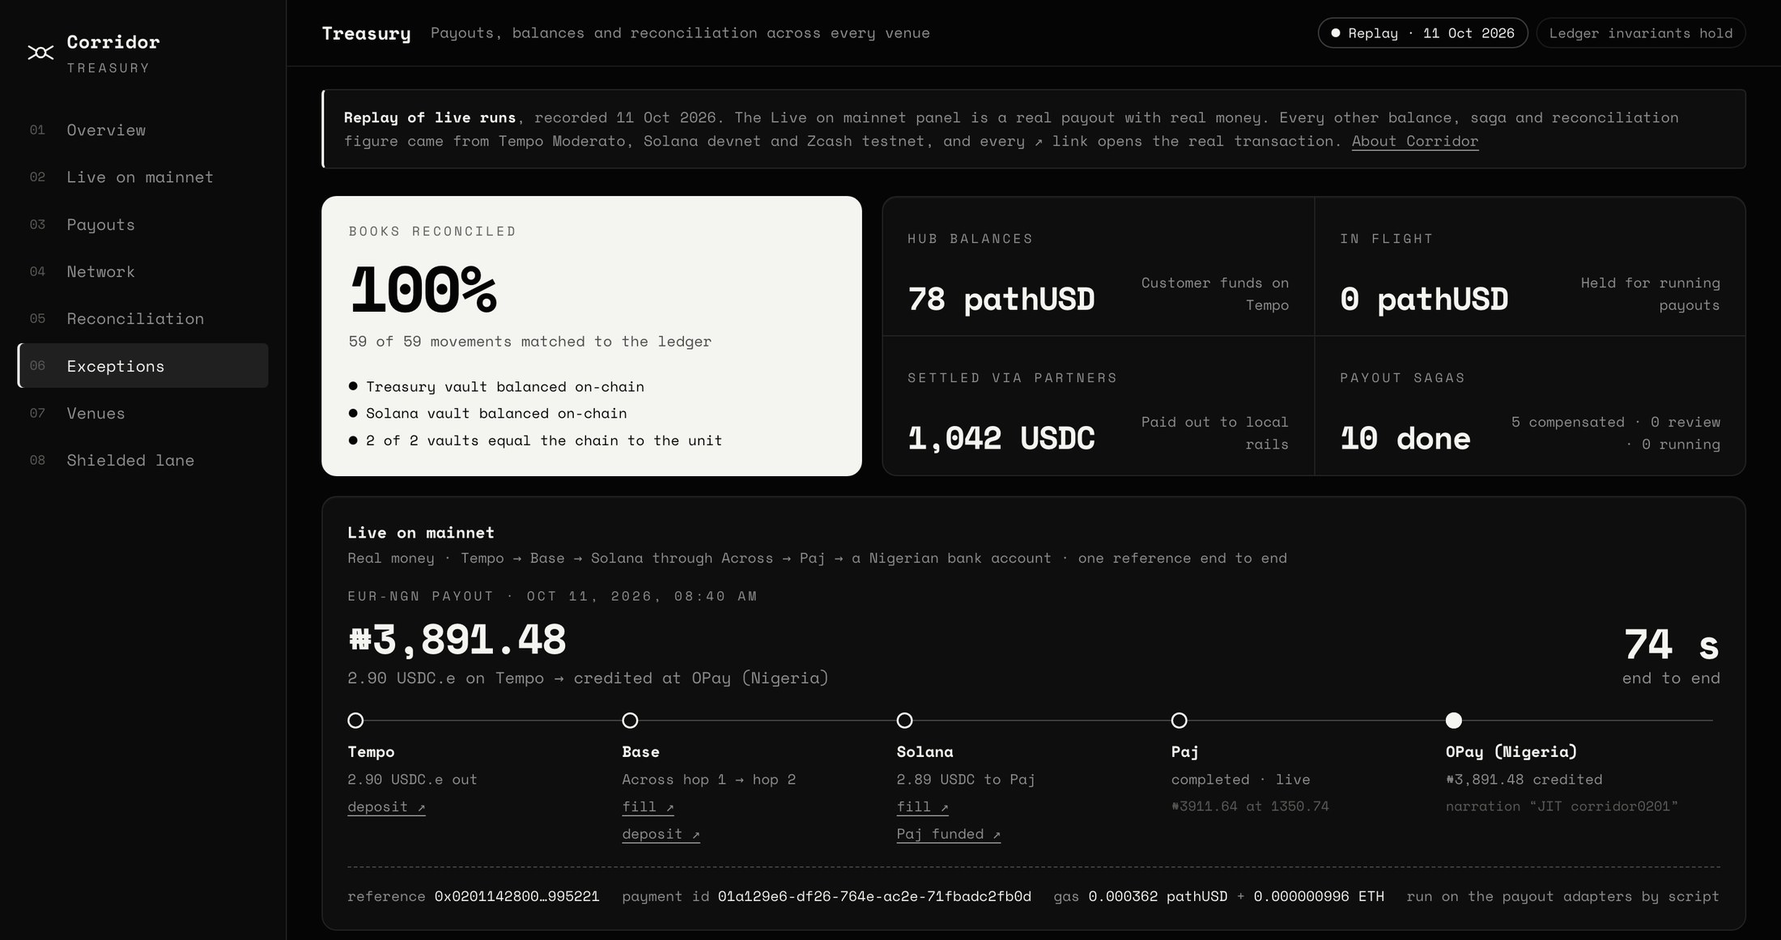
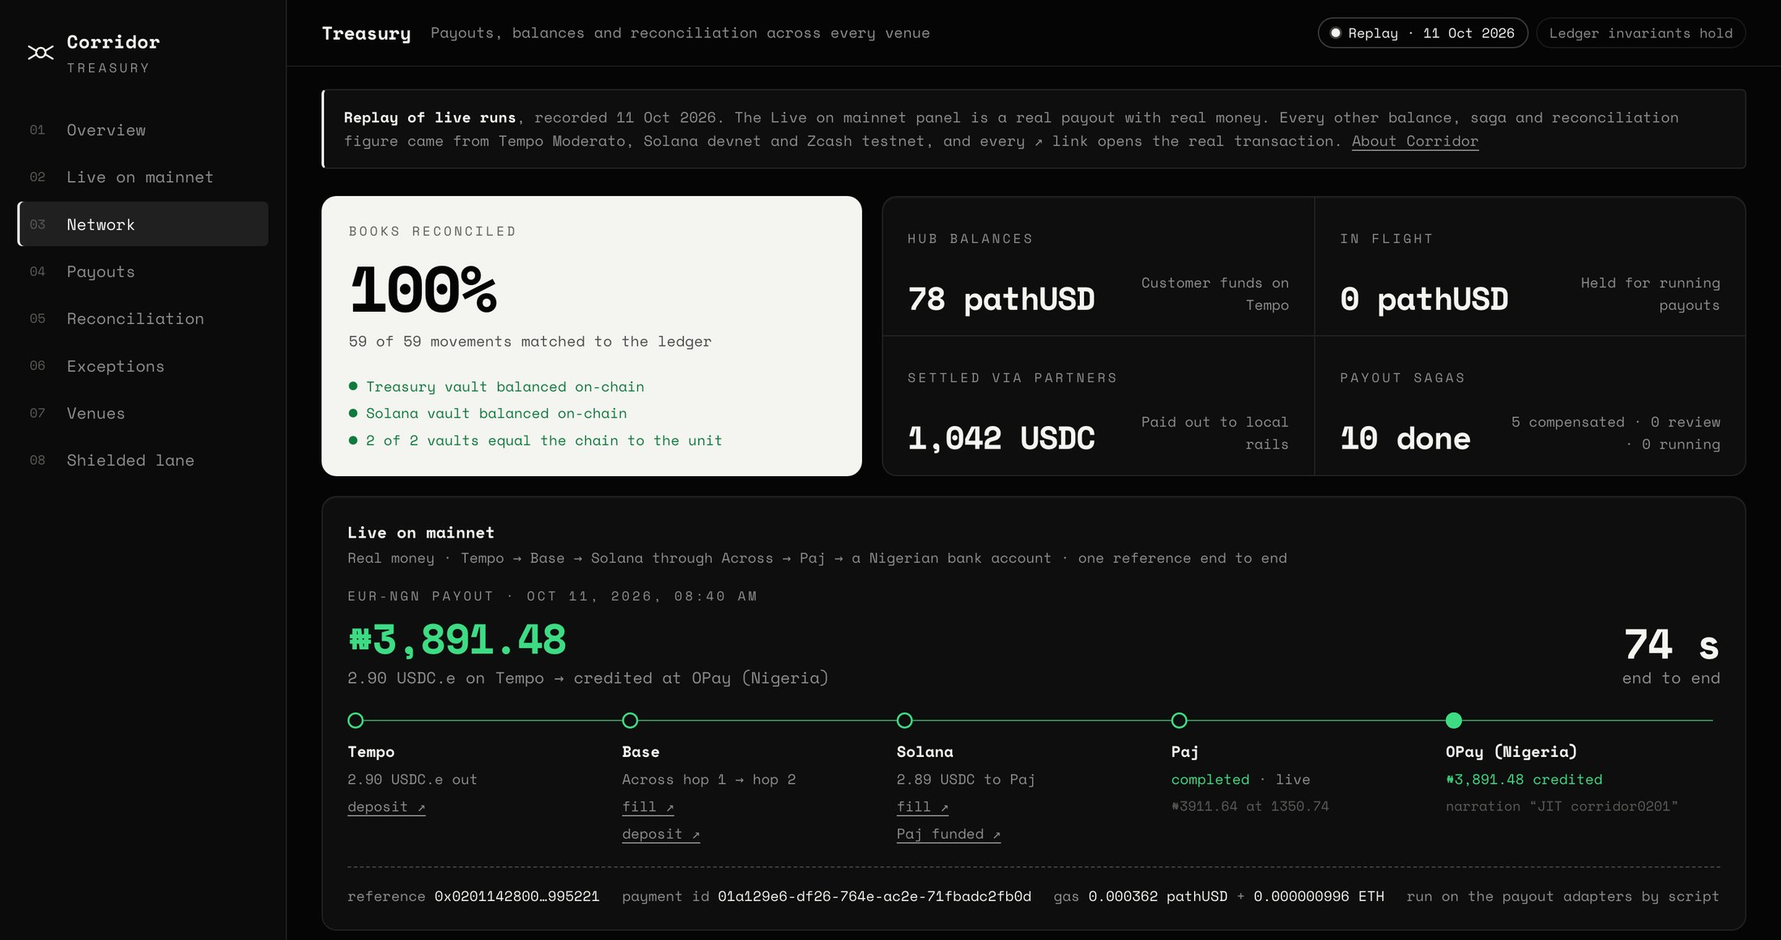
Console: green for successful transactions; Network follows Live on mainnet
Completed and matched statuses, done steps, balanced vaults, the FROST
batch, the credited amounts and the mainnet hop trace now use a success
green (a brighter shade on dark surfaces, a deeper one on light and on the
inverted hero card). Failures stay red, compensations grey. The settlement
network moves up to sit directly after the mainnet panel. Site and docs
screenshots regenerated, and the site shows them in colour.

diff --git a/apps/console/public/index.html b/apps/console/public/index.html
@@ -29,6 +29,8 @@
     --line: rgb(244 244 240 / 0.09);
     --line-strong: rgb(244 244 240 / 0.24);
     --bad: #ff6a5c;
+    --ok: #3ddc84;          /* success on dark surfaces */
+    --ok-inv: #0f7a3d;      /* success on the inverted hero card */
     --shadow: 0 1px 0 rgb(255 255 255 / 0.03) inset;
     color-scheme: dark;
   }
@@ -43,6 +45,8 @@
     --line: rgb(5 5 5 / 0.09);
     --line-strong: rgb(5 5 5 / 0.26);
     --bad: #c8321f;
+    --ok: #0f7a3d;
+    --ok-inv: #3ddc84;
     --shadow: 0 1px 2px rgb(5 5 5 / 0.04), 0 8px 24px -16px rgb(5 5 5 / 0.12);
     color-scheme: light;
   }
@@ -116,6 +120,9 @@
   .st.unreferenced i, .st.unexpected i { background: var(--muted); }
   .st.bad, .st.failed, .st.manual_review, .st.unbooked, .st.drift, .st.amount_mismatch, .st.compensation_failed, .st.short, .st.over, .st.missing { color: var(--bad); }
   .st.bad i, .st.failed i, .st.manual_review i, .st.unbooked i, .st.drift i, .st.amount_mismatch i, .st.compensation_failed i, .st.short i, .st.over i, .st.missing i { background: var(--bad); }
+  /* Success: green text and green marks wherever a transaction or check succeeded. */
+  .st.completed, .st.done, .st.matched, .st.balanced, .st.ok { color: var(--ok); }
+  .st.completed i, .st.done i, .st.matched i, .st.balanced i, .st.ok i { background: var(--ok); }
   .st.zero { color: var(--muted); }
   .st.zero i { background: transparent; box-shadow: inset 0 0 0 1.5px var(--faint); }
   .live i { animation: pulse 2.2s var(--ease) infinite; }
@@ -131,6 +138,8 @@
   .hero .checks { display: grid; gap: 4px; font-size: 11.5px; }
   .hero .checks .st { color: var(--bg); }
   .hero .checks .st i { background: var(--bg); }
+  .hero .checks .st.balanced { color: var(--ok-inv); }
+  .hero .checks .st.balanced i { background: var(--ok-inv); }
   .hero .checks .st.drift i { background: var(--bad); }
   .supports { display: grid; grid-template-columns: repeat(2, minmax(0, 1fr)); border: 1px solid var(--line); border-radius: var(--r-lg); background: var(--surface); box-shadow: var(--shadow); }
   .kpi { padding: 16px 20px; display: grid; grid-template-columns: auto minmax(0, 1fr); grid-template-areas: "label label" "value sub"; align-items: end; gap: 10px 16px; min-width: 0; }
@@ -148,10 +157,11 @@
   .trace-head .big { font-size: 34px; font-weight: 700; letter-spacing: -0.035em; line-height: 1.05; font-variant-numeric: tabular-nums; }
   .trace-head .side-stat { text-align: right; }
   .hops { list-style: none; margin: 0; padding: 0; display: grid; grid-template-columns: repeat(5, minmax(0, 1fr)); position: relative; }
-  .hops::before { content: ""; position: absolute; left: 6px; right: 6px; top: 6px; height: 1px; background: var(--line-strong); }
+  .hops::before { content: ""; position: absolute; left: 6px; right: 6px; top: 6px; height: 1px; background: var(--ok); opacity: 0.7; }
   .hop { position: relative; padding: 22px 12px 0 0; display: grid; gap: 4px; align-content: start; min-width: 0; }
-  .hop::before { content: ""; position: absolute; top: 0; left: 0; width: 13px; height: 13px; border-radius: 50%; background: var(--surface); box-shadow: inset 0 0 0 1.5px var(--fg); }
-  .hop.end::before { background: var(--fg); }
+  .hop::before { content: ""; position: absolute; top: 0; left: 0; width: 13px; height: 13px; border-radius: 50%; background: var(--surface); box-shadow: inset 0 0 0 1.5px var(--ok); }
+  .hop.end::before { background: var(--ok); }
+  .ok-text { color: var(--ok); }
   .hop b { font-size: 12.5px; }
   .hop .faint { font-size: 11px; }
   .hop a { font-size: 11.5px; color: var(--muted); }
@@ -169,6 +179,7 @@
   .saga .meta { color: var(--muted); font-size: 11.5px; }
   .route { display: flex; flex-wrap: wrap; align-items: center; gap: 4px; }
   .step { font-size: 11px; padding: 2px 8px; border-radius: var(--r-sm); border: 1px solid var(--line-strong); color: var(--fg); }
+  .step.done { color: var(--ok); border-color: color-mix(in srgb, var(--ok) 55%, transparent); }
   .step.pending { border-style: dashed; color: var(--muted); }
   .step.compensated { color: var(--muted); text-decoration: line-through; border-color: var(--line); }
   .step.failed, .step.compensation_failed { color: var(--bad); border-color: color-mix(in srgb, var(--bad) 50%, transparent); }
@@ -267,8 +278,8 @@
     <nav class="nav" aria-label="Main navigation">
       <a href="#overview"><span>01</span>Overview</a>
       <a href="#mainnet"><span>02</span>Live on mainnet</a>
-      <a href="#payouts"><span>03</span>Payouts</a>
-      <a href="#network"><span>04</span>Network</a>
+      <a href="#network"><span>03</span>Network</a>
+      <a href="#payouts"><span>04</span>Payouts</a>
       <a href="#reconciliation"><span>05</span>Reconciliation</a>
       <a href="#exceptions"><span>06</span>Exceptions</a>
       <a href="#venues-card"><span>07</span>Venues</a>
@@ -305,6 +316,11 @@
         <div id="mainnet-body"></div>
       </section>
 
+      <section class="card s12" aria-labelledby="network-h">
+        <header><div><h2 id="network-h"><a id="network"></a>Settlement network</h2><p>Tempo is the hub, every region is a spoke, and no flow can bypass the hub</p></div></header>
+        <div class="map" id="map"></div>
+      </section>
+
       <section class="card s8" aria-labelledby="payouts-h">
         <header><div><h2 id="payouts-h"><a id="payouts"></a>Settlement timeline</h2><p>Each payout is a saga: every step is recorded, and failures before money leaves unwind in reverse</p></div></header>
         <div id="sagas"></div>
@@ -329,10 +345,6 @@
         </div>
       </section>
 
-      <section class="card s12" aria-labelledby="network-h">
-        <header><div><h2 id="network-h"><a id="network"></a>Settlement network</h2><p>Tempo is the hub, every region is a spoke, and no flow can bypass the hub</p></div></header>
-        <div class="map" id="map"></div>
-      </section>
 
       <section class="card s5" aria-labelledby="recon-h">
         <header><div><h2 id="recon-h"><a id="reconciliation"></a>Reconciliation</h2><p>Chain and partner observations against the ledger</p></div></header>
@@ -417,8 +429,8 @@ async function refreshOverview() {
   $("hero").innerHTML = `<div><div class="label">Books reconciled</div>
       <div class="value" style="margin-top:12px">${esc(window.__matchRate ?? "—")}</div>
       <div class="sub" style="margin-top:8px">${r ? `${r.matched} of ${r.total} movements matched to the ledger` : "Reading the chains…"}</div></div>
-    <div class="checks">${vaults.map((v) => `<span class="st ${v.status === "balanced" ? "" : "drift"}"><i></i>${esc(v.vault[0].toUpperCase() + v.vault.slice(1))} vault ${v.status === "balanced" ? "balanced on-chain" : "drift"}</span>`).join("")}
-      ${r ? `<span class="st"><i></i>${balanced} of ${vaults.length} vaults equal the chain to the unit</span>` : ""}</div>`;
+    <div class="checks">${vaults.map((v) => `<span class="st ${v.status === "balanced" ? "balanced" : "drift"}"><i></i>${esc(v.vault[0].toUpperCase() + v.vault.slice(1))} vault ${v.status === "balanced" ? "balanced on-chain" : "drift"}</span>`).join("")}
+      ${r ? `<span class="st ${balanced === vaults.length ? "balanced" : ""}"><i></i>${balanced} of ${vaults.length} vaults equal the chain to the unit</span>` : ""}</div>`;
 
   const s = o.kpis.sagas;
   $("kpis").innerHTML = [
@@ -514,11 +526,11 @@ async function refreshMainnet() {
       { name: "Tempo", note: `${esc(p.input.amount)} ${esc(p.input.asset)} out`, links: [link(L[0], "deposit")] },
       { name: "Base", note: "Across hop 1 → hop 2", links: [link(L[1], "fill"), link(L[2], "deposit")] },
       { name: "Solana", note: `${esc(p.usdcToPartner)} USDC to Paj`, links: [link(L[3], "fill"), link(L[4], "Paj funded")] },
-      { name: "Paj", note: `${esc(p.partnerStatus.toLowerCase())}${p.partnerStatusLive ? " · live" : ""}`, links: [`<span class="faint">₦${esc(p.quotedFiat)} at ${esc(Number(p.rate).toFixed(2))}</span>`] },
-      { name: p.bankCredit ? esc(p.bankCredit.bank) : "Bank", note: `${delivered} credited`, links: [p.bankCredit ? `<span class="faint">narration “${esc(p.bankCredit.narration)}”</span>` : ""], end: true },
+      { name: "Paj", note: `<span class="${p.partnerStatus === "COMPLETED" ? "ok-text" : ""}">${esc(p.partnerStatus.toLowerCase())}</span>${p.partnerStatusLive ? " · live" : ""}`, links: [`<span class="faint">₦${esc(p.quotedFiat)} at ${esc(Number(p.rate).toFixed(2))}</span>`] },
+      { name: p.bankCredit ? esc(p.bankCredit.bank) : "Bank", note: `<span class="ok-text">${delivered} credited</span>`, links: [p.bankCredit ? `<span class="faint">narration “${esc(p.bankCredit.narration)}”</span>` : ""], end: true },
     ];
     return `<div class="trace-head"><div><div class="label">${esc(p.decoded.corridor)} payout · ${esc(when)}</div>
-        <div class="big" style="margin-top:8px">${delivered}</div>
+        <div class="big ok-text" style="margin-top:8px">${delivered}</div>
         <div class="muted" style="margin-top:4px">${esc(p.input.amount)} ${esc(p.input.asset)} on Tempo → credited at ${p.bankCredit ? esc(p.bankCredit.bank) : "the bank"}</div></div>
       ${p.seconds != null ? `<div class="side-stat"><div class="big">${p.seconds} s</div><div class="muted">end to end</div></div>` : ""}</div>
       <ol class="hops">${hops.map((h) => `<li class="hop${h.end ? " end" : ""}"><b>${h.name}</b><span class="muted" style="font-size:11.5px">${h.note}</span>${h.links.filter(Boolean).join(" ")}</li>`).join("")}</ol>
@@ -537,7 +549,7 @@ async function refreshShielded() {
        <div>Group key (ak)</div><div>${esc(short(z.vault.groupKey, 12))}</div></div>`
     : `<div class="empty">No FROST vault yet (run pnpm zcash:frost)</div>`;
   $("batches").innerHTML = `<tr><th>Batch</th><th>Pool</th><th class="num">Recipients</th><th>Invoices (encrypted memos)</th><th>Approval</th></tr>` +
-    ((z.batches || []).map((b) => `<tr><td><a href="${esc(b.explorer)}" target="_blank" rel="noopener">${esc(short(b.txid, 8))} ↗</a><div class="muted" style="font-size:11px">${esc(b.total)}</div></td><td>${esc(b.pool)}</td><td class="num">${b.recipients}</td><td style="font-size:11.5px">${b.invoices.map(esc).join("<br>")}</td><td>${b.control === "frost" ? `<span class="st"><i></i>FROST · signers ${b.approval ? b.approval.signers.join(" + ") : "2 of 3"}</span>` : `<span class="st unreferenced"><i></i>single key</span>`}</td></tr>`).join("") || `<tr><td colspan="5" class="empty">No shielded batches yet</td></tr>`);
+    ((z.batches || []).map((b) => `<tr><td><a href="${esc(b.explorer)}" target="_blank" rel="noopener">${esc(short(b.txid, 8))} ↗</a><div class="muted" style="font-size:11px">${esc(b.total)}</div></td><td>${esc(b.pool)}</td><td class="num">${b.recipients}</td><td style="font-size:11.5px">${b.invoices.map(esc).join("<br>")}</td><td>${b.control === "frost" ? `<span class="st completed"><i></i>FROST · signers ${b.approval ? b.approval.signers.join(" + ") : "2 of 3"}</span>` : `<span class="st unreferenced"><i></i>single key</span>`}</td></tr>`).join("") || `<tr><td colspan="5" class="empty">No shielded batches yet</td></tr>`);
 }
 
 async function refreshApprovals() {

diff --git a/apps/site/public/console/index.html b/apps/site/public/console/index.html
@@ -29,6 +29,8 @@
     --line: rgb(244 244 240 / 0.09);
     --line-strong: rgb(244 244 240 / 0.24);
     --bad: #ff6a5c;
+    --ok: #3ddc84;          /* success on dark surfaces */
+    --ok-inv: #0f7a3d;      /* success on the inverted hero card */
     --shadow: 0 1px 0 rgb(255 255 255 / 0.03) inset;
     color-scheme: dark;
   }
@@ -43,6 +45,8 @@
     --line: rgb(5 5 5 / 0.09);
     --line-strong: rgb(5 5 5 / 0.26);
     --bad: #c8321f;
+    --ok: #0f7a3d;
+    --ok-inv: #3ddc84;
     --shadow: 0 1px 2px rgb(5 5 5 / 0.04), 0 8px 24px -16px rgb(5 5 5 / 0.12);
     color-scheme: light;
   }
@@ -116,6 +120,9 @@
   .st.unreferenced i, .st.unexpected i { background: var(--muted); }
   .st.bad, .st.failed, .st.manual_review, .st.unbooked, .st.drift, .st.amount_mismatch, .st.compensation_failed, .st.short, .st.over, .st.missing { color: var(--bad); }
   .st.bad i, .st.failed i, .st.manual_review i, .st.unbooked i, .st.drift i, .st.amount_mismatch i, .st.compensation_failed i, .st.short i, .st.over i, .st.missing i { background: var(--bad); }
+  /* Success: green text and green marks wherever a transaction or check succeeded. */
+  .st.completed, .st.done, .st.matched, .st.balanced, .st.ok { color: var(--ok); }
+  .st.completed i, .st.done i, .st.matched i, .st.balanced i, .st.ok i { background: var(--ok); }
   .st.zero { color: var(--muted); }
   .st.zero i { background: transparent; box-shadow: inset 0 0 0 1.5px var(--faint); }
   .live i { animation: pulse 2.2s var(--ease) infinite; }
@@ -131,6 +138,8 @@
   .hero .checks { display: grid; gap: 4px; font-size: 11.5px; }
   .hero .checks .st { color: var(--bg); }
   .hero .checks .st i { background: var(--bg); }
+  .hero .checks .st.balanced { color: var(--ok-inv); }
+  .hero .checks .st.balanced i { background: var(--ok-inv); }
   .hero .checks .st.drift i { background: var(--bad); }
   .supports { display: grid; grid-template-columns: repeat(2, minmax(0, 1fr)); border: 1px solid var(--line); border-radius: var(--r-lg); background: var(--surface); box-shadow: var(--shadow); }
   .kpi { padding: 16px 20px; display: grid; grid-template-columns: auto minmax(0, 1fr); grid-template-areas: "label label" "value sub"; align-items: end; gap: 10px 16px; min-width: 0; }
@@ -148,10 +157,11 @@
   .trace-head .big { font-size: 34px; font-weight: 700; letter-spacing: -0.035em; line-height: 1.05; font-variant-numeric: tabular-nums; }
   .trace-head .side-stat { text-align: right; }
   .hops { list-style: none; margin: 0; padding: 0; display: grid; grid-template-columns: repeat(5, minmax(0, 1fr)); position: relative; }
-  .hops::before { content: ""; position: absolute; left: 6px; right: 6px; top: 6px; height: 1px; background: var(--line-strong); }
+  .hops::before { content: ""; position: absolute; left: 6px; right: 6px; top: 6px; height: 1px; background: var(--ok); opacity: 0.7; }
   .hop { position: relative; padding: 22px 12px 0 0; display: grid; gap: 4px; align-content: start; min-width: 0; }
-  .hop::before { content: ""; position: absolute; top: 0; left: 0; width: 13px; height: 13px; border-radius: 50%; background: var(--surface); box-shadow: inset 0 0 0 1.5px var(--fg); }
-  .hop.end::before { background: var(--fg); }
+  .hop::before { content: ""; position: absolute; top: 0; left: 0; width: 13px; height: 13px; border-radius: 50%; background: var(--surface); box-shadow: inset 0 0 0 1.5px var(--ok); }
+  .hop.end::before { background: var(--ok); }
+  .ok-text { color: var(--ok); }
   .hop b { font-size: 12.5px; }
   .hop .faint { font-size: 11px; }
   .hop a { font-size: 11.5px; color: var(--muted); }
@@ -169,6 +179,7 @@
   .saga .meta { color: var(--muted); font-size: 11.5px; }
   .route { display: flex; flex-wrap: wrap; align-items: center; gap: 4px; }
   .step { font-size: 11px; padding: 2px 8px; border-radius: var(--r-sm); border: 1px solid var(--line-strong); color: var(--fg); }
+  .step.done { color: var(--ok); border-color: color-mix(in srgb, var(--ok) 55%, transparent); }
   .step.pending { border-style: dashed; color: var(--muted); }
   .step.compensated { color: var(--muted); text-decoration: line-through; border-color: var(--line); }
   .step.failed, .step.compensation_failed { color: var(--bad); border-color: color-mix(in srgb, var(--bad) 50%, transparent); }
@@ -267,8 +278,8 @@
     <nav class="nav" aria-label="Main navigation">
       <a href="#overview"><span>01</span>Overview</a>
       <a href="#mainnet"><span>02</span>Live on mainnet</a>
-      <a href="#payouts"><span>03</span>Payouts</a>
-      <a href="#network"><span>04</span>Network</a>
+      <a href="#network"><span>03</span>Network</a>
+      <a href="#payouts"><span>04</span>Payouts</a>
       <a href="#reconciliation"><span>05</span>Reconciliation</a>
       <a href="#exceptions"><span>06</span>Exceptions</a>
       <a href="#venues-card"><span>07</span>Venues</a>
@@ -305,6 +316,11 @@
         <div id="mainnet-body"></div>
       </section>
 
+      <section class="card s12" aria-labelledby="network-h">
+        <header><div><h2 id="network-h"><a id="network"></a>Settlement network</h2><p>Tempo is the hub, every region is a spoke, and no flow can bypass the hub</p></div></header>
+        <div class="map" id="map"></div>
+      </section>
+
       <section class="card s8" aria-labelledby="payouts-h">
         <header><div><h2 id="payouts-h"><a id="payouts"></a>Settlement timeline</h2><p>Each payout is a saga: every step is recorded, and failures before money leaves unwind in reverse</p></div></header>
         <div id="sagas"></div>
@@ -329,10 +345,6 @@
         </div>
       </section>
 
-      <section class="card s12" aria-labelledby="network-h">
-        <header><div><h2 id="network-h"><a id="network"></a>Settlement network</h2><p>Tempo is the hub, every region is a spoke, and no flow can bypass the hub</p></div></header>
-        <div class="map" id="map"></div>
-      </section>
 
       <section class="card s5" aria-labelledby="recon-h">
         <header><div><h2 id="recon-h"><a id="reconciliation"></a>Reconciliation</h2><p>Chain and partner observations against the ledger</p></div></header>
@@ -418,8 +430,8 @@ async function refreshOverview() {
   $("hero").innerHTML = `<div><div class="label">Books reconciled</div>
       <div class="value" style="margin-top:12px">${esc(window.__matchRate ?? "—")}</div>
       <div class="sub" style="margin-top:8px">${r ? `${r.matched} of ${r.total} movements matched to the ledger` : "Reading the chains…"}</div></div>
-    <div class="checks">${vaults.map((v) => `<span class="st ${v.status === "balanced" ? "" : "drift"}"><i></i>${esc(v.vault[0].toUpperCase() + v.vault.slice(1))} vault ${v.status === "balanced" ? "balanced on-chain" : "drift"}</span>`).join("")}
-      ${r ? `<span class="st"><i></i>${balanced} of ${vaults.length} vaults equal the chain to the unit</span>` : ""}</div>`;
+    <div class="checks">${vaults.map((v) => `<span class="st ${v.status === "balanced" ? "balanced" : "drift"}"><i></i>${esc(v.vault[0].toUpperCase() + v.vault.slice(1))} vault ${v.status === "balanced" ? "balanced on-chain" : "drift"}</span>`).join("")}
+      ${r ? `<span class="st ${balanced === vaults.length ? "balanced" : ""}"><i></i>${balanced} of ${vaults.length} vaults equal the chain to the unit</span>` : ""}</div>`;
 
   const s = o.kpis.sagas;
   $("kpis").innerHTML = [
@@ -515,11 +527,11 @@ async function refreshMainnet() {
       { name: "Tempo", note: `${esc(p.input.amount)} ${esc(p.input.asset)} out`, links: [link(L[0], "deposit")] },
       { name: "Base", note: "Across hop 1 → hop 2", links: [link(L[1], "fill"), link(L[2], "deposit")] },
       { name: "Solana", note: `${esc(p.usdcToPartner)} USDC to Paj`, links: [link(L[3], "fill"), link(L[4], "Paj funded")] },
-      { name: "Paj", note: `${esc(p.partnerStatus.toLowerCase())}${p.partnerStatusLive ? " · live" : ""}`, links: [`<span class="faint">₦${esc(p.quotedFiat)} at ${esc(Number(p.rate).toFixed(2))}</span>`] },
-      { name: p.bankCredit ? esc(p.bankCredit.bank) : "Bank", note: `${delivered} credited`, links: [p.bankCredit ? `<span class="faint">narration “${esc(p.bankCredit.narration)}”</span>` : ""], end: true },
+      { name: "Paj", note: `<span class="${p.partnerStatus === "COMPLETED" ? "ok-text" : ""}">${esc(p.partnerStatus.toLowerCase())}</span>${p.partnerStatusLive ? " · live" : ""}`, links: [`<span class="faint">₦${esc(p.quotedFiat)} at ${esc(Number(p.rate).toFixed(2))}</span>`] },
+      { name: p.bankCredit ? esc(p.bankCredit.bank) : "Bank", note: `<span class="ok-text">${delivered} credited</span>`, links: [p.bankCredit ? `<span class="faint">narration “${esc(p.bankCredit.narration)}”</span>` : ""], end: true },
     ];
     return `<div class="trace-head"><div><div class="label">${esc(p.decoded.corridor)} payout · ${esc(when)}</div>
-        <div class="big" style="margin-top:8px">${delivered}</div>
+        <div class="big ok-text" style="margin-top:8px">${delivered}</div>
         <div class="muted" style="margin-top:4px">${esc(p.input.amount)} ${esc(p.input.asset)} on Tempo → credited at ${p.bankCredit ? esc(p.bankCredit.bank) : "the bank"}</div></div>
       ${p.seconds != null ? `<div class="side-stat"><div class="big">${p.seconds} s</div><div class="muted">end to end</div></div>` : ""}</div>
       <ol class="hops">${hops.map((h) => `<li class="hop${h.end ? " end" : ""}"><b>${h.name}</b><span class="muted" style="font-size:11.5px">${h.note}</span>${h.links.filter(Boolean).join(" ")}</li>`).join("")}</ol>
@@ -538,7 +550,7 @@ async function refreshShielded() {
        <div>Group key (ak)</div><div>${esc(short(z.vault.groupKey, 12))}</div></div>`
     : `<div class="empty">No FROST vault yet (run pnpm zcash:frost)</div>`;
   $("batches").innerHTML = `<tr><th>Batch</th><th>Pool</th><th class="num">Recipients</th><th>Invoices (encrypted memos)</th><th>Approval</th></tr>` +
-    ((z.batches || []).map((b) => `<tr><td><a href="${esc(b.explorer)}" target="_blank" rel="noopener">${esc(short(b.txid, 8))} ↗</a><div class="muted" style="font-size:11px">${esc(b.total)}</div></td><td>${esc(b.pool)}</td><td class="num">${b.recipients}</td><td style="font-size:11.5px">${b.invoices.map(esc).join("<br>")}</td><td>${b.control === "frost" ? `<span class="st"><i></i>FROST · signers ${b.approval ? b.approval.signers.join(" + ") : "2 of 3"}</span>` : `<span class="st unreferenced"><i></i>single key</span>`}</td></tr>`).join("") || `<tr><td colspan="5" class="empty">No shielded batches yet</td></tr>`);
+    ((z.batches || []).map((b) => `<tr><td><a href="${esc(b.explorer)}" target="_blank" rel="noopener">${esc(short(b.txid, 8))} ↗</a><div class="muted" style="font-size:11px">${esc(b.total)}</div></td><td>${esc(b.pool)}</td><td class="num">${b.recipients}</td><td style="font-size:11.5px">${b.invoices.map(esc).join("<br>")}</td><td>${b.control === "frost" ? `<span class="st completed"><i></i>FROST · signers ${b.approval ? b.approval.signers.join(" + ") : "2 of 3"}</span>` : `<span class="st unreferenced"><i></i>single key</span>`}</td></tr>`).join("") || `<tr><td colspan="5" class="empty">No shielded batches yet</td></tr>`);
 }
 
 async function refreshApprovals() {

diff --git a/apps/site/src/styles.css b/apps/site/src/styles.css
@@ -298,13 +298,13 @@ button { font: inherit; color: inherit; background: none; border: 0; padding: 0;
 .product .head { display: flex; justify-content: space-between; align-items: flex-end; gap: 32px; flex-wrap: wrap; }
 .screen { position: relative; margin-top: clamp(48px, 6vw, 88px); perspective: 1800px; }
 .screen .frame { transform-origin: 50% 0%; border-radius: var(--r-lg); overflow: hidden; border: 1px solid var(--line-strong); box-shadow: 0 50px 120px -40px rgb(0 0 0 / 0.9); }
-.screen .frame img { width: 100%; filter: grayscale(1) contrast(1.05); }
+.screen .frame img { width: 100%; }
 .screen .float {
   position: absolute; right: -2%; bottom: -10%; width: min(36%, 460px);
   border-radius: var(--r-md); overflow: hidden; border: 1px solid var(--line-strong);
   box-shadow: 0 30px 80px -20px rgb(0 0 0 / 0.95);
 }
-.screen .float img { filter: grayscale(1) contrast(1.05); }
+.screen .float img { display: block; }
 .proofcard {
   position: absolute; left: 4%; bottom: -7%; z-index: 2;
   padding: 18px 20px; border-radius: var(--r-md); background: var(--white); color: var(--black);
